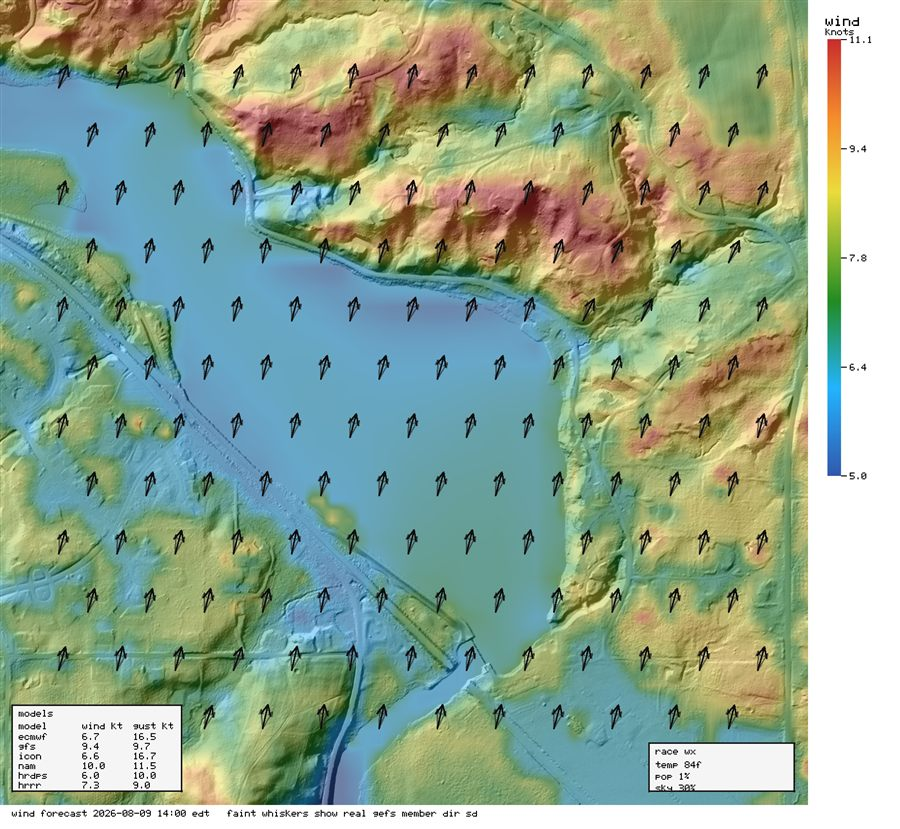
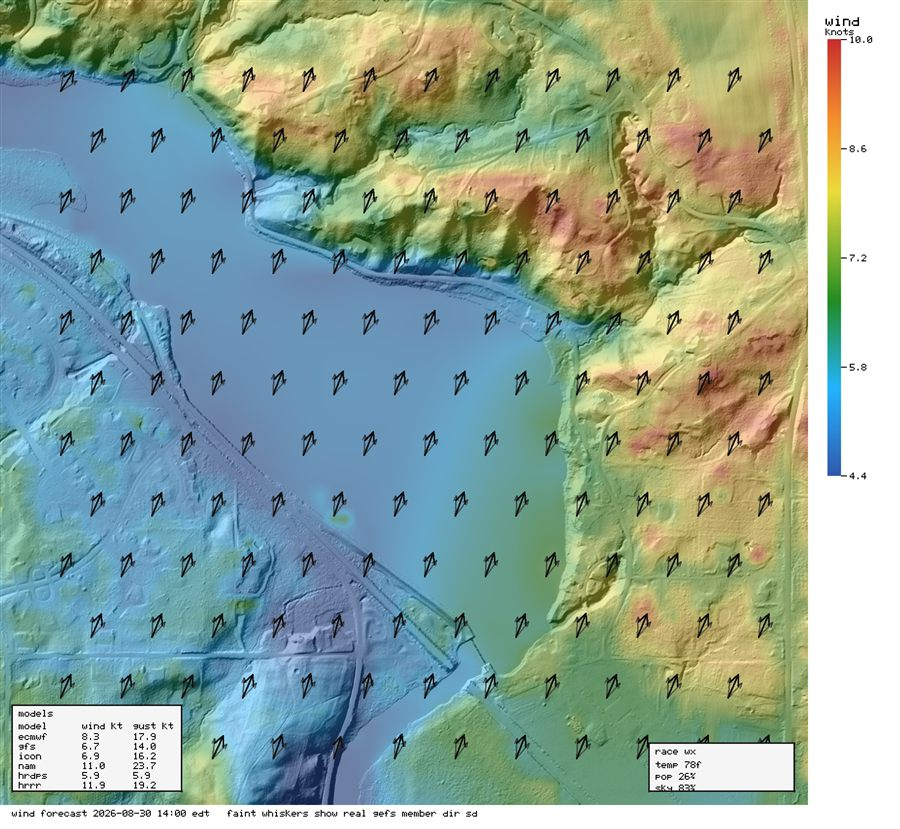
Publish latest PondWind report 2026-08-30 1400

diff --git a/index.html b/index.html
@@ -10,59 +10,64 @@
   <header class="site-header">
     <p class="eyebrow">PondWind</p>
     <h1>Latest Report</h1>
-    <p class="subtitle">Latest published report</p>
-    <p class="meta">Site: 20260809_1400_barton_pond &middot; Published: 2026-08-09T14:03:36.9186635Z</p>
+    <p class="subtitle">Race time: 2026-08-30T14:00:00-04:00</p>
+    <p class="meta">Site: barton_pond &middot; Published: 2026-08-30T14:46:42.7913121Z</p>
   </header>
   <main class="product-grid">
       <article class="product-card">
         <div class="product-meta">Wind</div>
         <h2>Wind Speed Prediction</h2>
-        <a href="latest/images/product_1_wind_speed_prediction_knots.png?v=2026-08-09T14%3A03%3A36.9186635Z"><img src="latest/images/product_1_wind_speed_prediction_knots.png?v=2026-08-09T14%3A03%3A36.9186635Z" alt="Wind Speed Prediction"></a>
+        <a href="latest/images/product_1_wind_speed_prediction_knots.png?v=2026-08-30T14%3A46%3A42.7913121Z"><img src="latest/images/product_1_wind_speed_prediction_knots.png?v=2026-08-30T14%3A46%3A42.7913121Z" alt="Wind Speed Prediction"></a>
       </article>
       <article class="product-card">
         <div class="product-meta">Wind</div>
         <h2>Wind Speed Ensemble SD</h2>
-        <a href="latest/images/product_2_wind_speed_variance_knots.png?v=2026-08-09T14%3A03%3A36.9186635Z"><img src="latest/images/product_2_wind_speed_variance_knots.png?v=2026-08-09T14%3A03%3A36.9186635Z" alt="Wind Speed Ensemble SD"></a>
+        <a href="latest/images/product_2_wind_speed_variance_knots.png?v=2026-08-30T14%3A46%3A42.7913121Z"><img src="latest/images/product_2_wind_speed_variance_knots.png?v=2026-08-30T14%3A46%3A42.7913121Z" alt="Wind Speed Ensemble SD"></a>
       </article>
       <article class="product-card">
         <div class="product-meta">Wind</div>
         <h2>Wind Direction Ensemble SD</h2>
-        <a href="latest/images/product_3_wind_direction_variance_degrees.png?v=2026-08-09T14%3A03%3A36.9186635Z"><img src="latest/images/product_3_wind_direction_variance_degrees.png?v=2026-08-09T14%3A03%3A36.9186635Z" alt="Wind Direction Ensemble SD"></a>
+        <a href="latest/images/product_3_wind_direction_variance_degrees.png?v=2026-08-30T14%3A46%3A42.7913121Z"><img src="latest/images/product_3_wind_direction_variance_degrees.png?v=2026-08-30T14%3A46%3A42.7913121Z" alt="Wind Direction Ensemble SD"></a>
       </article>
       <article class="product-card">
         <div class="product-meta">Experimental CFD</div>
         <h2>Experimental CFD/Adapter Comparison</h2>
-        <a href="latest/images/product_4_openfoam_experimental_cfd_knots.png?v=2026-08-09T14%3A03%3A36.9186635Z"><img src="latest/images/product_4_openfoam_experimental_cfd_knots.png?v=2026-08-09T14%3A03%3A36.9186635Z" alt="Experimental CFD/Adapter Comparison"></a>
+        <a href="latest/images/product_4_openfoam_experimental_cfd_knots.png?v=2026-08-30T14%3A46%3A42.7913121Z"><img src="latest/images/product_4_openfoam_experimental_cfd_knots.png?v=2026-08-30T14%3A46%3A42.7913121Z" alt="Experimental CFD/Adapter Comparison"></a>
       </article>
       <article class="product-card">
         <div class="product-meta">Experimental CFD</div>
         <h2>Experimental CFD Turbulence Intensity</h2>
-        <a href="latest/images/product_5_openfoam_turbulence_intensity_percent.png?v=2026-08-09T14%3A03%3A36.9186635Z"><img src="latest/images/product_5_openfoam_turbulence_intensity_percent.png?v=2026-08-09T14%3A03%3A36.9186635Z" alt="Experimental CFD Turbulence Intensity"></a>
+        <a href="latest/images/product_5_openfoam_turbulence_intensity_percent.png?v=2026-08-30T14%3A46%3A42.7913121Z"><img src="latest/images/product_5_openfoam_turbulence_intensity_percent.png?v=2026-08-30T14%3A46%3A42.7913121Z" alt="Experimental CFD Turbulence Intensity"></a>
       </article>
       <article class="product-card">
         <div class="product-meta">Sailing</div>
         <h2>Experimental ILCA Relative Polar</h2>
-        <a href="latest/images/product_6_sailing_polar_dem_overlay.png?v=2026-08-09T14%3A03%3A36.9186635Z"><img src="latest/images/product_6_sailing_polar_dem_overlay.png?v=2026-08-09T14%3A03%3A36.9186635Z" alt="Experimental ILCA Relative Polar"></a>
+        <a href="latest/images/product_6_sailing_polar_dem_overlay.png?v=2026-08-30T14%3A46%3A42.7913121Z"><img src="latest/images/product_6_sailing_polar_dem_overlay.png?v=2026-08-30T14%3A46%3A42.7913121Z" alt="Experimental ILCA Relative Polar"></a>
       </article>
       <article class="product-card">
         <div class="product-meta">Sailing</div>
         <h2>Experimental CFD Relative Polar</h2>
-        <a href="latest/images/product_7_openfoam_sailing_polar_dem_overlay.png?v=2026-08-09T14%3A03%3A36.9186635Z"><img src="latest/images/product_7_openfoam_sailing_polar_dem_overlay.png?v=2026-08-09T14%3A03%3A36.9186635Z" alt="Experimental CFD Relative Polar"></a>
+        <a href="latest/images/product_7_openfoam_sailing_polar_dem_overlay.png?v=2026-08-30T14%3A46%3A42.7913121Z"><img src="latest/images/product_7_openfoam_sailing_polar_dem_overlay.png?v=2026-08-30T14%3A46%3A42.7913121Z" alt="Experimental CFD Relative Polar"></a>
       </article>
       <article class="product-card">
         <div class="product-meta">Satellite</div>
         <h2>Latest RGB Satellite</h2>
-        <a href="latest/images/satellite_rgb_latest.png?v=2026-08-09T14%3A03%3A36.9186635Z"><img src="latest/images/satellite_rgb_latest.png?v=2026-08-09T14%3A03%3A36.9186635Z" alt="Latest RGB Satellite"></a>
+        <a href="latest/images/satellite_rgb_latest.png?v=2026-08-30T14%3A46%3A42.7913121Z"><img src="latest/images/satellite_rgb_latest.png?v=2026-08-30T14%3A46%3A42.7913121Z" alt="Latest RGB Satellite"></a>
+      </article>
+      <article class="product-card">
+        <div class="product-meta">Satellite</div>
+        <h2>Surface Temperature Over Water</h2>
+        <a href="latest/images/satellite_sst_latest.png?v=2026-08-30T14%3A46%3A42.7913121Z"><img src="latest/images/satellite_sst_latest.png?v=2026-08-30T14%3A46%3A42.7913121Z" alt="Surface Temperature Over Water"></a>
       </article>
       <article class="product-card">
         <div class="product-meta">Satellite</div>
         <h2>Experimental Chlorophyll-a Index</h2>
-        <a href="latest/images/satellite_chla_estimated.png?v=2026-08-09T14%3A03%3A36.9186635Z"><img src="latest/images/satellite_chla_estimated.png?v=2026-08-09T14%3A03%3A36.9186635Z" alt="Experimental Chlorophyll-a Index"></a>
+        <a href="latest/images/satellite_chla_estimated.png?v=2026-08-30T14%3A46%3A42.7913121Z"><img src="latest/images/satellite_chla_estimated.png?v=2026-08-30T14%3A46%3A42.7913121Z" alt="Experimental Chlorophyll-a Index"></a>
       </article>
       <article class="product-card">
         <div class="product-meta">Satellite</div>
         <h2>Experimental Turbidity Index</h2>
-        <a href="latest/images/satellite_turbidity_estimated.png?v=2026-08-09T14%3A03%3A36.9186635Z"><img src="latest/images/satellite_turbidity_estimated.png?v=2026-08-09T14%3A03%3A36.9186635Z" alt="Experimental Turbidity Index"></a>
+        <a href="latest/images/satellite_turbidity_estimated.png?v=2026-08-30T14%3A46%3A42.7913121Z"><img src="latest/images/satellite_turbidity_estimated.png?v=2026-08-30T14%3A46%3A42.7913121Z" alt="Experimental Turbidity Index"></a>
       </article>
   </main>
   <footer class="site-footer">
